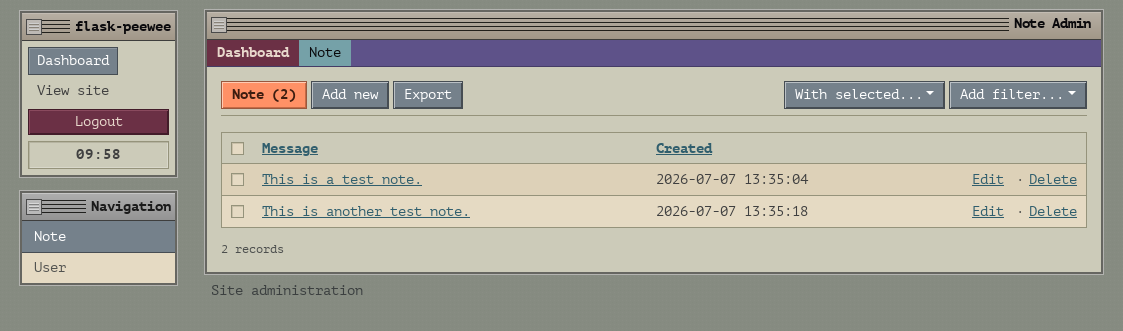
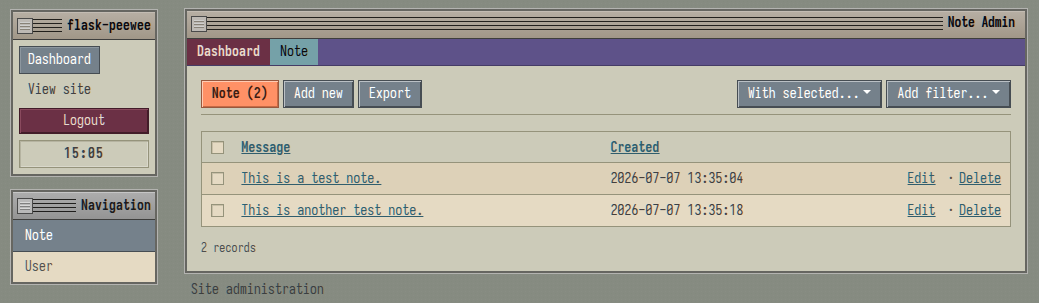
Crux theme

diff --git a/docs/admin.rst b/docs/admin.rst
@@ -12,6 +12,10 @@ Here's a screen-shot of the admin dashboard:
 
 .. image:: fp-admin.png
 
+You can also try out a custom theme. Here is the *crux* theme:
+
+.. image:: fp-crux-full.png
+
 Getting started
 ---------------
 